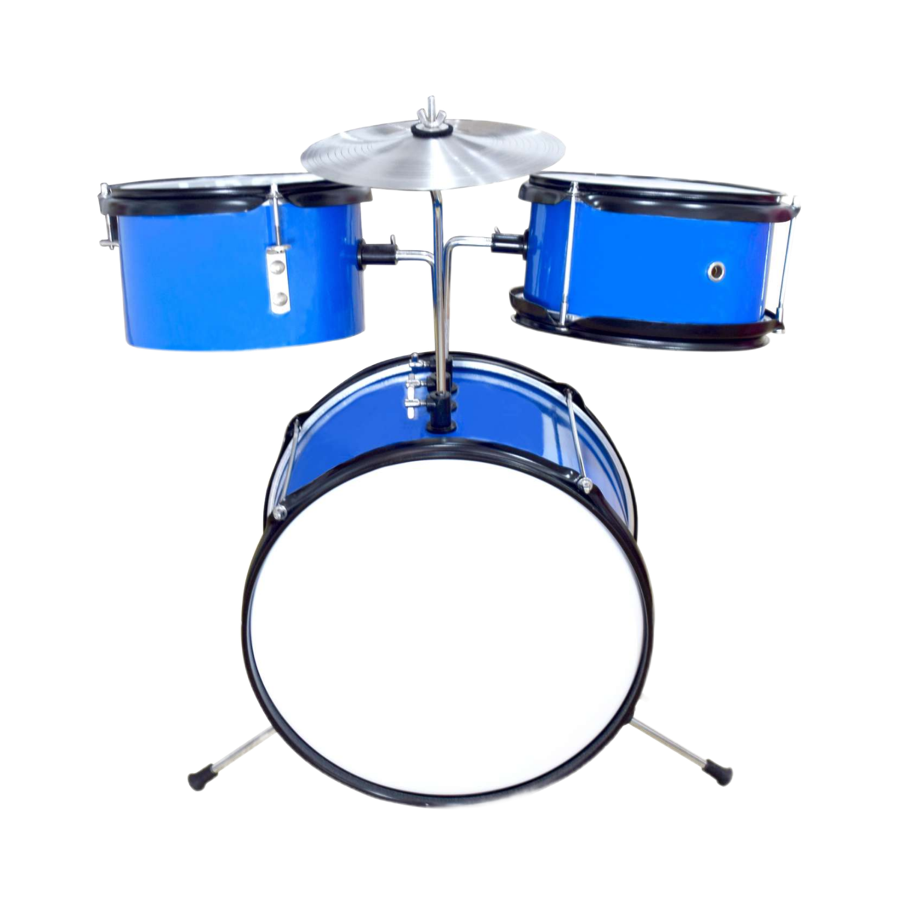
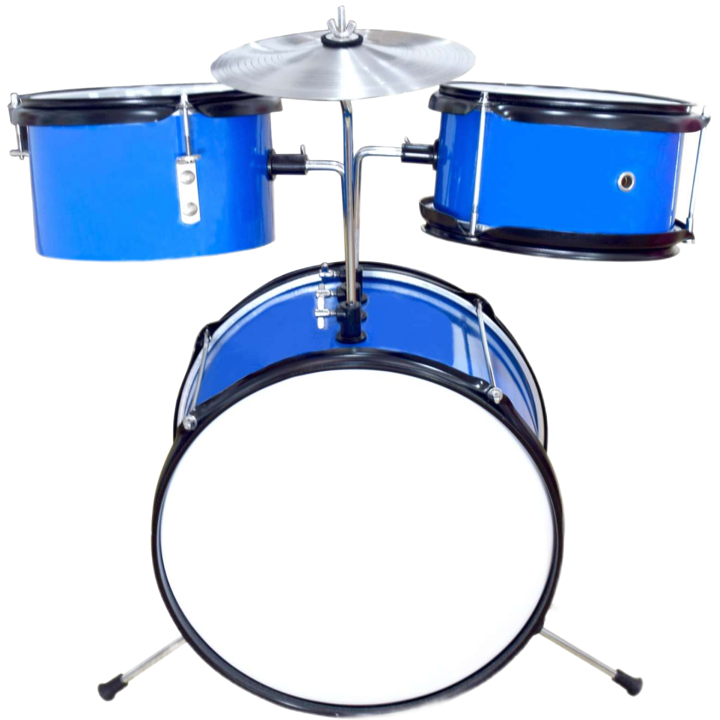
Барабаны снизу

diff --git a/main.py b/main.py
@@ -9,7 +9,7 @@ def compbine_img(img1, img2):
     rows, cols, channels = img2.shape
 
     # Ниже я изменил roi, чтобы картинка выводилась посередине, а не в левом верхнем углу
-    roi = img1[int(brows / 2) - int(rows / 2):int(brows / 2) + int(rows / 2), int(bcols / 2) - int(cols / 2):int(bcols / 2) + int(cols / 2)]
+    roi = img1[int(brows / 20 * 13) - int(rows / 2):int(brows / 20 * 13) + int(rows / 2), int(bcols / 2) - int(cols / 2):int(bcols / 2) + int(cols / 2)]
 
     img2gray = cv2.cvtColor(img2, cv2.COLOR_BGR2GRAY)
     ret, mask = cv2.threshold(img2gray, 10, 255, cv2.THRESH_BINARY)
@@ -20,7 +20,7 @@ def compbine_img(img1, img2):
     img2_fg = cv2.bitwise_and(img2, img2, mask=mask)
 
     dst = cv2.add(img1_bg, img2_fg)
-    img1[int(brows / 2) - int(rows / 2):int(brows / 2) + int(rows / 2), int(bcols / 2) -
+    img1[int(brows / 20 * 13) - int(rows / 2):int(brows / 20 * 13) + int(rows / 2), int(bcols / 2) -
                                                                         int(cols / 2):int(bcols / 2) + int(
         cols / 2)] = dst
 
